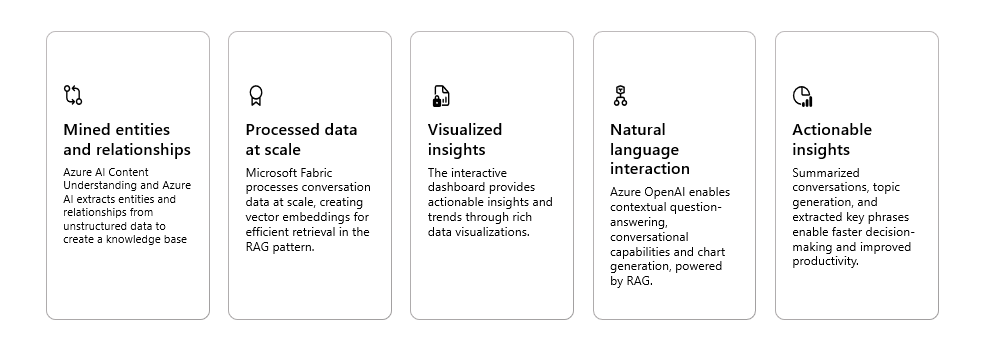
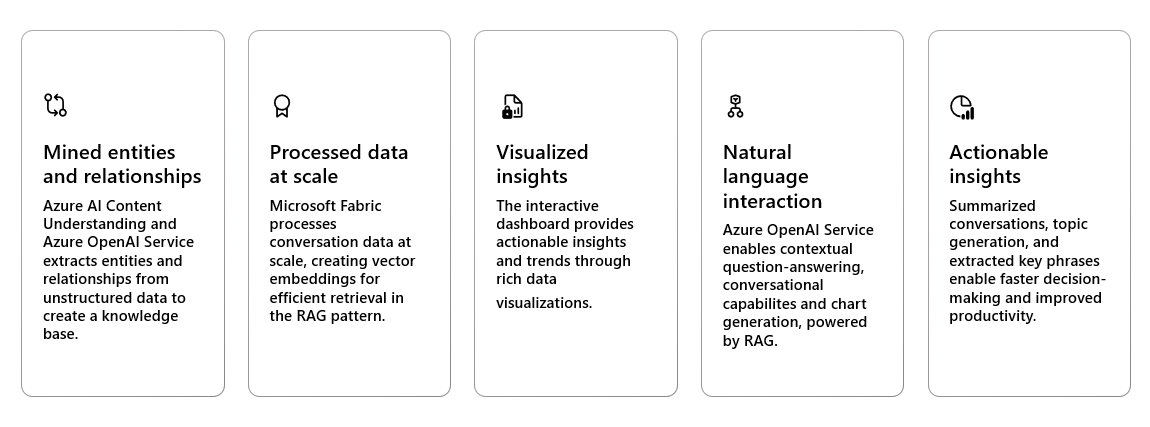
docs: update readme

diff --git a/README.md b/README.md
@@ -11,7 +11,7 @@ User story
 
 This solution accelerator enables customers with large amounts of conversational data to improve decision-making by leveraging intelligence to uncover insights, relationships, and patterns from customer interactions. It empowers users to gain valuable knowledge and drive targeted business impact. 
 
-It leverages Azure AI Foundry, AI Content Understanding, Azure OpenAI, and Azure AI Search to transform large volumes of conversational data into actionable insights through topic modeling, key phrase extraction, speech-to-text transcription, and interactive chat experiences.
+It leverages Azure AI Foundry, Azure AI Content Understanding, Azure OpenAI Service, and Azure AI Search to transform large volumes of conversational data into actionable insights through topic modeling, key phrase extraction, speech-to-text transcription, and interactive chat experiences.
 
 
 ### Technical key features
@@ -51,7 +51,7 @@ To deploy this solution accelerator, ensure you have access to an [Azure subscri
 Check the [Azure Products by Region](https://azure.microsoft.com/en-us/explore/global-infrastructure/products-by-region/?products=all&regions=all) page and select a **region** where the following services are available:  
 
 - Azure AI Foundry 
-- Azure OpenAI Services 
+- Azure OpenAI Service 
 - Azure AI Search
 - Azure AI Content Understanding
 - Embedding Deployment Capacity  
@@ -69,8 +69,8 @@ When you start the deployment, most parameters will have **default values**, but
 |------------|----------------|  ------------|
 | **Azure Region** | The region where resources will be created. | East US| 
 | **Environment Name** | A **3-20 character alphanumeric value** used to generate a unique ID to prefix the resources. |  kmtemplate |
-| **Content Understanding Location** | Select from a drop-down list of values. |  Sweden Central |
-| **Secondary Location** | A **less busy** region for **Azure SQL and CosmosDB**, useful in case of availability constraints. |  eastus2 |
+| **Azure AI Content Understanding Location** | Select from a drop-down list of values. |  Sweden Central |
+| **Secondary Location** | A **less busy** region for **Azure SQL and Azure Cosmos DB**, useful in case of availability constraints. |  eastus2 |
 | **Deployment Type** | Select from a drop-down list. |  GlobalStandard |
 | **GPT Model** | Choose from **gpt-4, gpt-4o, gpt-4o-mini** | gpt-4o-mini |  
 | **GPT Model Deployment Capacity** | Configure capacity for **GPT models**. | 30k |
